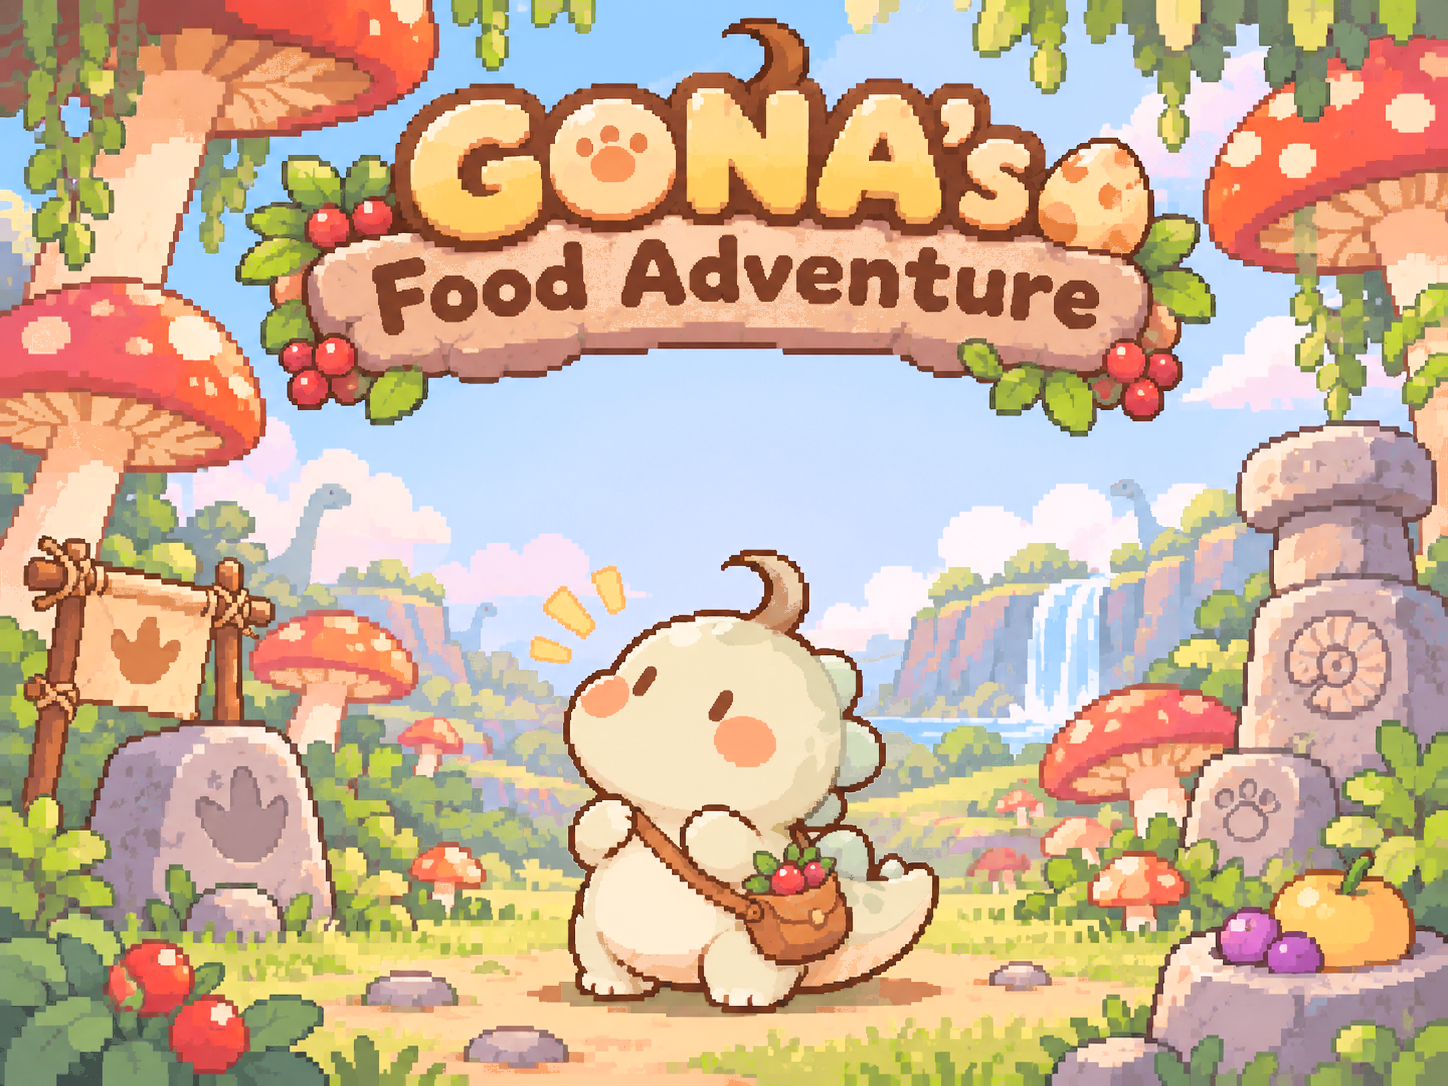
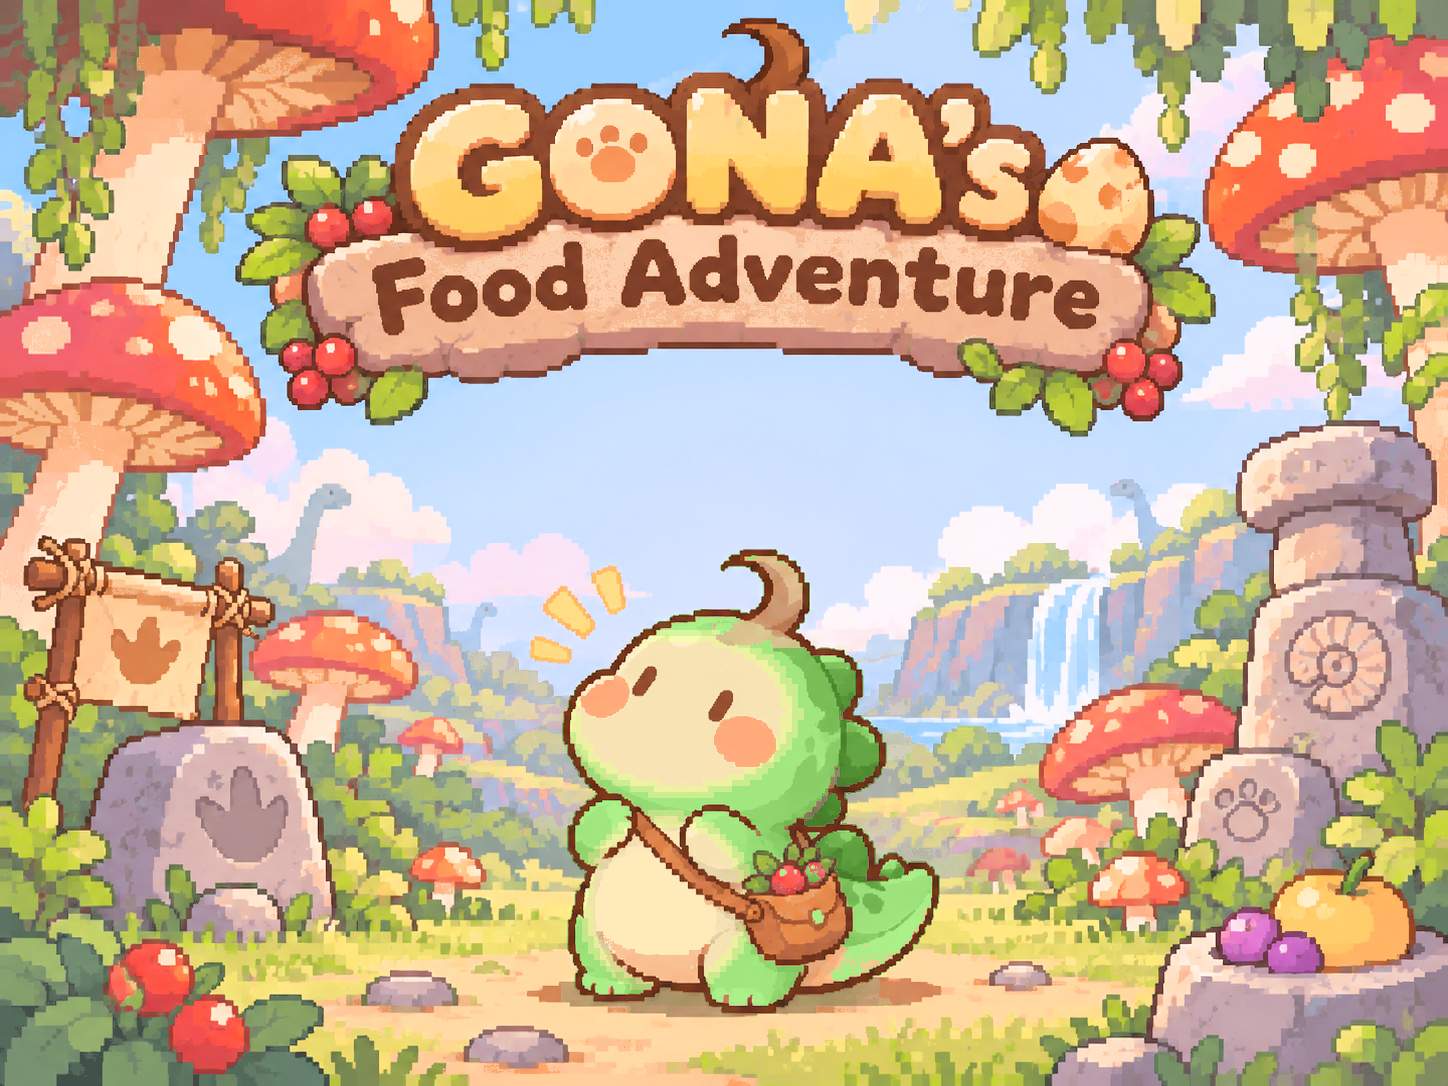
타이틀: 세로 로고 82%로 안 잘리게(실제 보이는 폭 기준·크기 바뀌면 다시 배치) + 고나 초록·크림 색 보정
- 로고: window 대신 화면 요소 실제 크기로 계산, ResizeObserver 로 재배치, 폭 82% 이하·양옆 16px+안전 영역
- 고나: 뽀얗게 날린 보정 취소 → 얼굴·배 따뜻한 크림, 머리 위·등·팔·꼬리 선명한 초록 (명암·볼터치·머리카락·가방 유지)

Claude-Session: https://claude.ai/code/session_011LWBdXw4QZfYtFVgBEtNat

Changed region(s): [[0.3729, 0.5166, 0.6526, 0.942], [0.404, 0.6077, 0.4351, 0.6381]]

diff --git a/src/ui/cover.ts b/src/ui/cover.ts
@@ -166,6 +166,8 @@ export class CoverScreen {
       sound.startMusic('title');
     });
     window.addEventListener('resize', () => this.layout());
+    // 앱 안 미리보기 창처럼 window 크기와 실제 보이는 크기가 다를 수 있어, 실제 요소 크기가 바뀔 때마다 다시 배치
+    if ('ResizeObserver' in window) new ResizeObserver(() => this.layout()).observe(this.root);
     void this.load();
   }
 
@@ -252,8 +254,9 @@ export class CoverScreen {
 
   layout(): void {
     if (!this.shown) return;
-    const vw = window.innerWidth;
-    const vh = window.innerHeight;
+    // 실제로 보이는 크기 (window.innerWidth 대신 화면 요소 자체의 크기)
+    const vw = this.root.clientWidth || window.innerWidth;
+    const vh = this.root.clientHeight || window.innerHeight;
     const portrait = vw / vh < 1;
     this.root.classList.toggle('portrait', portrait);
     if (portrait) this.layoutPortrait(vw, vh);
@@ -267,16 +270,19 @@ export class CoverScreen {
     const Hs = vh / s;
     const x0 = Math.min(P.cropX0 + P.w - unitsW, Math.max(P.cropX0, PORTRAIT_CENTER_X - unitsW / 2));
     const probe = document.createElement('div');
-    probe.style.cssText = 'position:absolute;top:0;height:env(safe-area-inset-top);visibility:hidden';
+    probe.style.cssText =
+      'position:absolute;top:0;left:0;height:env(safe-area-inset-top);width:env(safe-area-inset-left);padding-right:env(safe-area-inset-right);visibility:hidden';
     document.body.append(probe);
     const inset = probe.offsetHeight;
+    const insetX = Math.max(probe.offsetWidth, 0);
     probe.remove();
     const safeTop = Math.max(vh * 0.04, inset + 8) / s;
 
     Object.assign(this.stage.style, { width: `${unitsW}px`, height: `${Hs}px`, transform: `scale(${s})`, left: '0px', top: '0px', background: 'rgb(150,190,238)' });
     // 로고: 위쪽 하늘 위
-    // 로고 폭: 화면의 86% (양옆 장식 잎·열매까지 화면 안에, 여백 확보)
-    const logoW = unitsW * 0.86;
+    // 세로 화면 전용 로고 크기: 보이는 폭의 82% 이하 + 양옆 최소 16px(안전 영역 포함) — 양옆 장식 잎·열매까지 절대 안 잘리게
+    const sideCss = Math.max(16, insetX + 12);
+    const logoW = Math.min(unitsW * 0.82, (vw - sideCss * 2) / s);
     const logoH = (logoW / L.logo.w) * L.logo.h;
     place(this.logoTop, { x: (unitsW - logoW) / 2, y: safeTop, w: logoW, h: logoH });
     this.logoTop.style.display = '';

diff --git a/tools/grade_cover.py b/tools/grade_cover.py
@@ -7,7 +7,7 @@
 
   - 전체: 누런 안개 빼기(화이트밸런스) + 중간 톤 밝게
   - 하늘: 맑은 파스텔 블루 / 풀밭: 밝은 연두 / 버섯·꽃·열매: 생기 있게 / 흙길: 덜 탁하게
-  - 고나: 고나 외곽선 안쪽의 밝은 몸 색만 더 뽀얗게 (외곽선·가방·볼터치는 그대로)
+  - 고나: 외곽선 안쪽만 — 얼굴·배는 따뜻한 크림, 머리 위·등·팔·꼬리는 선명한 초록 (명암·볼터치·갈색 머리카락·가방 그대로)
 
 사용법: python3 tools/grade_cover.py && python3 tools/build_cover_layers.py
 """
@@ -117,13 +117,39 @@ def main():
     # 흙길·누런 곳: 덜 탁하게 (채도 살짝 빼고 밝게)
     s = np.where(yellow & ~dark & ~inside, s * 0.86, s)
     v = np.where(yellow & ~dark & ~inside, np.minimum(1, v * 1.05), v)
-    # 고나 몸: 밝은 부분만 더 뽀얗게 (외곽선·가방 갈색·진한 볼은 제외)
-    body = inside & (v > 0.55) & (s < 0.42)
-    s = np.where(body, s * 0.72, s)
-    v = np.where(body, v + (1 - v) * 0.38, v)
+    # 고나: 원본 그림의 명암은 그대로 두고 색만 — 얼굴·배는 따뜻한 크림, 머리 위·등·팔·꼬리는 싱그러운 초록
+    #   (볼터치·갈색 머리카락·가방·외곽선·가방 속 잎은 그대로. 영역 경계는 6px 도트 단위로)
+    h0, s0, v0 = rgb2hsv(np.clip(src / 255.0, 0, 1))
+    Hh, Ww = v0.shape
+    yy, xx = np.mgrid[0:Hh, 0:Ww]
+    gx0, gy0 = GONA_BOX[0], GONA_BOX[1]
+    bx = (xx // 6) * 6 + 3 - gx0
+    by = (yy // 6) * 6 + 3 - gy0
+
+    def ell(cx, cy, rx, ry):
+        return np.sqrt(((bx - cx) / rx) ** 2 + ((by - cy) / ry) ** 2)
+
+    d = np.minimum(ell(120, 165, 125, 88), ell(105, 355, 92, 95))  # 얼굴 · 배
+    cream = np.round(np.clip((1.0 - d) / 0.22, 0, 1) * 3) / 3
+    hair = (bx >= 150) & (bx <= 262) & (by <= 100) & (v0 < 0.9) & (s0 > 0.22)
+    body = (
+        inside & ~hair & (v0 >= 0.32)
+        & ~((h0 < 30) & (s0 > 0.3))  # 볼터치·열매
+        & ~((s0 > 0.42) & (v0 < 0.7))  # 가방·끈
+        & ~((h0 >= 60) & (h0 < 170) & (s0 > 0.35))  # 가방 속 잎
+    )
+    gh = np.full_like(h0, 100.0)
+    gs = np.clip(0.42 + 0.55 * (1 - v0), 0.42, 0.66)
+    gv = v0 * 0.95
+    ch = np.full_like(h0, 42.0)
+    cs = np.clip(s0, 0.17, 0.27)
+    cv = np.minimum(1, v0 * 1.02)
+    h = np.where(body, gh * (1 - cream) + ch * cream, h)
+    s = np.where(body, gs * (1 - cream) + cs * cream, s)
+    v = np.where(body, gv * (1 - cream) + cv * cream, v)
     out = hsv2rgb(h, np.clip(s, 0, 1), np.clip(v, 0, 1))
     Image.fromarray((out * 255 + 0.5).astype(np.uint8)).save(OUT)
-    print(f"saved {OUT.relative_to(ROOT)} · 고나 몸 보정 픽셀 {int(body.sum())}")
+    print(f"saved {OUT.relative_to(ROOT)} · 고나 색 보정 픽셀 {int(body.sum())}")
 
 
 if __name__ == "__main__":
